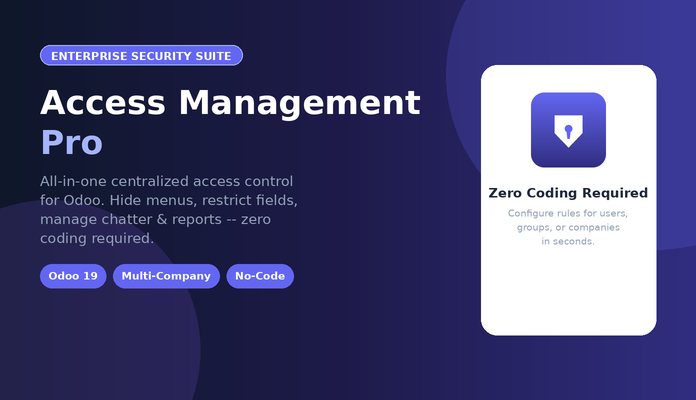
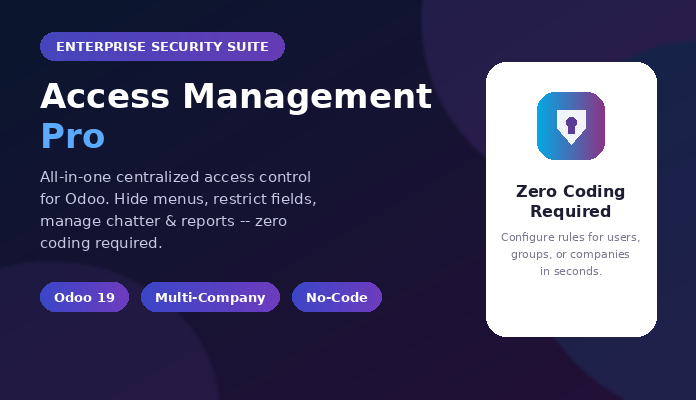
change in the texts in the l4e_access_management_pro

diff --git a/l4e_access_management_pro/static/description/index.html b/l4e_access_management_pro/static/description/index.html
@@ -81,34 +81,34 @@
 <div class="container" style="max-width:1200px; margin:0 auto; padding:0 15px;">
 
 <div style="text-align:center;margin-bottom:30px;padding-top:15px;">
-  <img src="banner.gif" alt="Access Management Pro Banner" style="width:100%;max-width:1000px;height:auto;border-radius:12px;display:block;margin:0 auto;box-shadow:0 4px 20px rgba(0,0,0,0.08);">
+  <img src="banner.gif" alt="Access Management Pro Banner" style="width:100%;max-width:1000px;height:auto;border-radius:12px;display:block;margin:0 auto;border:1px solid #e2e8f0;">
 </div>
 
 <!-- HERO -->
-<div style="background:linear-gradient(135deg,#0f172a 0%,#1e1b4b 55%,#312e81 100%);border-radius:16px;padding:40px 36px;margin-bottom:28px;">
+<div style="background-color:#0f172a;border-radius:16px;padding:40px 36px;margin-bottom:28px;">
   <div class="row align-items-center">
     <div class="col-lg-8 mb-4 mb-lg-0">
-      <div style="display:inline-block;background:rgba(99,102,241,0.25);border:1px solid rgba(165,180,252,0.4);color:#a5b4fc;font-size:11px;font-weight:700;padding:5px 14px;border-radius:30px;letter-spacing:1px;text-transform:uppercase;margin-bottom:16px;">
+      <div style="display:inline-block;background-color:#1e1b4b;border:1px solid #4338ca;color:#a5b4fc;font-size:11px;font-weight:700;padding:5px 14px;border-radius:30px;letter-spacing:1px;text-transform:uppercase;margin-bottom:16px;">
         &#x1F6E1; ENTERPRISE SECURITY SUITE
       </div>
       <div style="font-size:34px;font-weight:800;color:#ffffff;letter-spacing:-0.5px;line-height:1.15;margin-bottom:14px;">
         Access Management Pro
       </div>
-      <div style="font-size:15px;color:#94a3b8;margin-bottom:22px;max-width:560px;">
-        All-in-one centralized access control for Odoo. Hide menus, restrict fields, lock down buttons and reports, control chatter, and manage domain-level security for any user, group, or company &mdash; from a single dashboard. <strong style="color:#c7d2fe;">Zero coding required.</strong>
+      <div style="font-size:15px;color:#cbd5e1;margin-bottom:22px;max-width:560px;">
+        All-in-one centralized access control for Odoo. Hide menus, restrict fields, lock down buttons and reports, control chatter, and manage domain-level security for any user, group, or company &mdash; from a single dashboard. <strong style="color:#ffffff;">Zero coding required.</strong>
       </div>
       <div>
-        <span style="display:inline-block;background:linear-gradient(90deg,#6366f1,#8b5cf6);color:#fff;font-size:11px;font-weight:700;padding:4px 12px;border-radius:20px;margin-right:6px;margin-bottom:6px;">&#x2713; Odoo 19</span>
-        <span style="display:inline-block;background:linear-gradient(90deg,#6366f1,#8b5cf6);color:#fff;font-size:11px;font-weight:700;padding:4px 12px;border-radius:20px;margin-right:6px;margin-bottom:6px;">&#x2713; Multi-Company</span>
-        <span style="display:inline-block;background:linear-gradient(90deg,#6366f1,#8b5cf6);color:#fff;font-size:11px;font-weight:700;padding:4px 12px;border-radius:20px;margin-right:6px;margin-bottom:6px;">&#x2713; No Coding Required</span>
+        <span style="display:inline-block;background-color:#4f46e5;color:#ffffff;font-size:11px;font-weight:700;padding:4px 12px;border-radius:20px;margin-right:6px;margin-bottom:6px;">&#x2713; Odoo 19</span>
+        <span style="display:inline-block;background-color:#4f46e5;color:#ffffff;font-size:11px;font-weight:700;padding:4px 12px;border-radius:20px;margin-right:6px;margin-bottom:6px;">&#x2713; Multi-Company</span>
+        <span style="display:inline-block;background-color:#4f46e5;color:#ffffff;font-size:11px;font-weight:700;padding:4px 12px;border-radius:20px;margin-right:6px;margin-bottom:6px;">&#x2713; No Coding Required</span>
       </div>
     </div>
     <div class="col-lg-4 text-center">
-      <div style="background:rgba(255,255,255,0.06);border:1px solid rgba(255,255,255,0.12);border-radius:14px;padding:24px 20px;">
+      <div style="background-color:#1e293b;border:1px solid #334155;border-radius:14px;padding:24px 20px;">
         <div style="font-size:11px;color:#94a3b8;font-weight:600;letter-spacing:1px;text-transform:uppercase;margin-bottom:6px;">License</div>
         <div style="font-size:20px;font-weight:800;color:#ffffff;margin-bottom:8px;">OPL-1</div>
         <div style="font-size:12px;color:#a5b4fc;margin-bottom:16px;">One-Time Purchase &bull; Multi-Company</div>
-        <div style="background:rgba(99,102,241,0.2);border-radius:8px;padding:8px 12px;font-size:11.5px;color:#c7d2fe;">
+        <div style="background-color:#2e2870;border:1px solid #4338ca;border-radius:8px;padding:8px 12px;font-size:11.5px;color:#c7d2fe;">
           Compatible with Odoo 19 Community &amp; Enterprise
         </div>
       </div>
@@ -117,7 +117,7 @@
 </div>
 
 <!-- KEY CAPABILITIES -->
-<div style="background:linear-gradient(135deg,#f8fafc,#eef2ff);border:1px solid #c7d2fe;border-radius:14px;padding:28px 28px 20px;margin-bottom:28px;">
+<div style="background-color:#f8fafc;border:1px solid #c7d2fe;border-radius:14px;padding:28px 28px 20px;margin-bottom:28px;">
   <div style="text-align:center;font-size:17px;font-weight:700;color:#1e293b;margin-bottom:20px;">&#x2B50; Key Capabilities At A Glance</div>
   <div style="text-align:center;">
     <span style="display:inline-block;background:#fff;border:1px solid #cbd5e1;border-radius:30px;padding:7px 16px;margin:4px;font-size:12px;font-weight:600;color:#1e293b;">Hide Menus &amp; Submenus</span>
@@ -134,7 +134,7 @@
 </div>
 
 <div style="text-align:center;margin:36px 0 22px;">
-  <div style="display:inline-block;background:rgba(0,135,132,0.1);color:#008784;font-size:11px;font-weight:700;padding:5px 14px;border-radius:30px;letter-spacing:1px;text-transform:uppercase;margin-bottom:10px;">Deep Dive</div>
+  <div style="display:inline-block;background-color:#e0f2f1;border:1px solid #b2dfdb;color:#008784;font-size:11px;font-weight:700;padding:5px 14px;border-radius:30px;letter-spacing:1px;text-transform:uppercase;margin-bottom:10px;">Deep Dive</div>
   <div style="font-size:26px;font-weight:800;color:#151765;">Explore Every Access Control Feature</div>
   <div style="font-size:14px;color:#64748b;margin-top:6px;">Click any tab on the left to view that feature's screenshot and detailed explanation.</div>
 </div>
@@ -181,7 +181,7 @@
         
         <!-- Right column: Tab Content showcase -->
         <div class="col-xl-9 col-lg-8 col-md-7 col-sm-12">
-            <div class="tab-content py-3 bg-white ms-md-2" style="border-radius:10px; min-height:420px; box-shadow:0 2px 8px rgba(0,0,0,0.04);">
+            <div class="tab-content py-3 bg-white ms-md-2" style="border-radius:10px; min-height:420px; border:1px solid #e2e8f0;">
                 
             <div class="tab-pane h-100 active show" id="gmenu-1-pane" role="tabpanel" aria-labelledby="vv-gmenu-1-tab">
                 <div class="h-100 d-flex flex-column align-items-center w-100 justify-content-center p-3">
@@ -306,7 +306,7 @@
         
         <!-- Right column: Tab Content showcase -->
         <div class="col-xl-9 col-lg-8 col-md-7 col-sm-12">
-            <div class="tab-content py-3 bg-white ms-md-2" style="border-radius:10px; min-height:420px; box-shadow:0 2px 8px rgba(0,0,0,0.04);">
+            <div class="tab-content py-3 bg-white ms-md-2" style="border-radius:10px; min-height:420px; border:1px solid #e2e8f0;">
                 
             <div class="tab-pane h-100 active show" id="gmodel-1-pane" role="tabpanel" aria-labelledby="vv-gmodel-1-tab">
                 <div class="h-100 d-flex flex-column align-items-center w-100 justify-content-center p-3">
@@ -435,7 +435,7 @@
         
         <!-- Right column: Tab Content showcase -->
         <div class="col-xl-9 col-lg-8 col-md-7 col-sm-12">
-            <div class="tab-content py-3 bg-white ms-md-2" style="border-radius:10px; min-height:420px; box-shadow:0 2px 8px rgba(0,0,0,0.04);">
+            <div class="tab-content py-3 bg-white ms-md-2" style="border-radius:10px; min-height:420px; border:1px solid #e2e8f0;">
                 
             <div class="tab-pane h-100 active show" id="gfield-1-pane" role="tabpanel" aria-labelledby="vv-gfield-1-tab">
                 <div class="h-100 d-flex flex-column align-items-center w-100 justify-content-center p-3">
@@ -539,7 +539,7 @@
         
         <!-- Right column: Tab Content showcase -->
         <div class="col-xl-9 col-lg-8 col-md-7 col-sm-12">
-            <div class="tab-content py-3 bg-white ms-md-2" style="border-radius:10px; min-height:420px; box-shadow:0 2px 8px rgba(0,0,0,0.04);">
+            <div class="tab-content py-3 bg-white ms-md-2" style="border-radius:10px; min-height:420px; border:1px solid #e2e8f0;">
                 
             <div class="tab-pane h-100 active show" id="gdomain-1-pane" role="tabpanel" aria-labelledby="vv-gdomain-1-tab">
                 <div class="h-100 d-flex flex-column align-items-center w-100 justify-content-center p-3">
@@ -641,7 +641,7 @@
         
         <!-- Right column: Tab Content showcase -->
         <div class="col-xl-9 col-lg-8 col-md-7 col-sm-12">
-            <div class="tab-content py-3 bg-white ms-md-2" style="border-radius:10px; min-height:420px; box-shadow:0 2px 8px rgba(0,0,0,0.04);">
+            <div class="tab-content py-3 bg-white ms-md-2" style="border-radius:10px; min-height:420px; border:1px solid #e2e8f0;">
                 
             <div class="tab-pane h-100 active show" id="gbutton-1-pane" role="tabpanel" aria-labelledby="vv-gbutton-1-tab">
                 <div class="h-100 d-flex flex-column align-items-center w-100 justify-content-center p-3">
@@ -715,7 +715,7 @@
         
         <!-- Right column: Tab Content showcase -->
         <div class="col-xl-9 col-lg-8 col-md-7 col-sm-12">
-            <div class="tab-content py-3 bg-white ms-md-2" style="border-radius:10px; min-height:420px; box-shadow:0 2px 8px rgba(0,0,0,0.04);">
+            <div class="tab-content py-3 bg-white ms-md-2" style="border-radius:10px; min-height:420px; border:1px solid #e2e8f0;">
                 
             <div class="tab-pane h-100 active show" id="gsearch-1-pane" role="tabpanel" aria-labelledby="vv-gsearch-1-tab">
                 <div class="h-100 d-flex flex-column align-items-center w-100 justify-content-center p-3">
@@ -800,7 +800,7 @@
         
         <!-- Right column: Tab Content showcase -->
         <div class="col-xl-9 col-lg-8 col-md-7 col-sm-12">
-            <div class="tab-content py-3 bg-white ms-md-2" style="border-radius:10px; min-height:420px; box-shadow:0 2px 8px rgba(0,0,0,0.04);">
+            <div class="tab-content py-3 bg-white ms-md-2" style="border-radius:10px; min-height:420px; border:1px solid #e2e8f0;">
                 
             <div class="tab-pane h-100 active show" id="gchatter-1-pane" role="tabpanel" aria-labelledby="vv-gchatter-1-tab">
                 <div class="h-100 d-flex flex-column align-items-center w-100 justify-content-center p-3">
@@ -913,7 +913,7 @@
         
         <!-- Right column: Tab Content showcase -->
         <div class="col-xl-9 col-lg-8 col-md-7 col-sm-12">
-            <div class="tab-content py-3 bg-white ms-md-2" style="border-radius:10px; min-height:420px; box-shadow:0 2px 8px rgba(0,0,0,0.04);">
+            <div class="tab-content py-3 bg-white ms-md-2" style="border-radius:10px; min-height:420px; border:1px solid #e2e8f0;">
                 
             <div class="tab-pane h-100 active show" id="gglobal-1-pane" role="tabpanel" aria-labelledby="vv-gglobal-1-tab">
                 <div class="h-100 d-flex flex-column align-items-center w-100 justify-content-center p-3">
@@ -1005,7 +1005,7 @@
         
         <!-- Right column: Tab Content showcase -->
         <div class="col-xl-9 col-lg-8 col-md-7 col-sm-12">
-            <div class="tab-content py-3 bg-white ms-md-2" style="border-radius:10px; min-height:420px; box-shadow:0 2px 8px rgba(0,0,0,0.04);">
+            <div class="tab-content py-3 bg-white ms-md-2" style="border-radius:10px; min-height:420px; border:1px solid #e2e8f0;">
                 
             <div class="tab-pane h-100 active show" id="gronly-1-pane" role="tabpanel" aria-labelledby="vv-gronly-1-tab">
                 <div class="h-100 d-flex flex-column align-items-center w-100 justify-content-center p-3">
@@ -1055,13 +1055,13 @@
 </div>
 
 <!-- FOOTER -->
-<div style="background:linear-gradient(135deg,#0f172a,#1e1b4b);border-radius:14px;padding:40px 28px;text-align:center;margin-bottom:20px;">
+<div style="background-color:#0f172a;border-radius:14px;padding:40px 28px;text-align:center;margin-bottom:20px;">
   <div style="font-size:24px;font-weight:800;color:#ffffff;margin-bottom:10px;">Secure Your Odoo Enterprise Today</div>
-  <div style="font-size:14.5px;color:#94a3b8;margin-bottom:22px;">Maintain complete control over user access, data visibility, and UI elements &mdash; without writing a single line of code.</div>
+  <div style="font-size:14.5px;color:#cbd5e1;margin-bottom:22px;">Maintain complete control over user access, data visibility, and UI elements &mdash; without writing a single line of code.</div>
   <div>
-    <span style="display:inline-block;background:rgba(255,255,255,0.12);border:1px solid rgba(255,255,255,0.2);color:#ffffff;font-size:12px;font-weight:600;padding:8px 20px;border-radius:30px;margin:4px;">&#x2705; 100% Native Integration</span>
-    <span style="display:inline-block;background:rgba(255,255,255,0.12);border:1px solid rgba(255,255,255,0.2);color:#ffffff;font-size:12px;font-weight:600;padding:8px 20px;border-radius:30px;margin:4px;">&#x2705; Odoo 19 Ready</span>
-    <span style="display:inline-block;background:rgba(255,255,255,0.12);border:1px solid rgba(255,255,255,0.2);color:#ffffff;font-size:12px;font-weight:600;padding:8px 20px;border-radius:30px;margin:4px;">&#x2705; Free Support Window</span>
+    <span style="display:inline-block;background-color:#1e293b;border:1px solid #334155;color:#ffffff;font-size:12px;font-weight:600;padding:8px 20px;border-radius:30px;margin:4px;">&#x2705; 100% Native Integration</span>
+    <span style="display:inline-block;background-color:#1e293b;border:1px solid #334155;color:#ffffff;font-size:12px;font-weight:600;padding:8px 20px;border-radius:30px;margin:4px;">&#x2705; Odoo 19 Ready</span>
+    <span style="display:inline-block;background-color:#1e293b;border:1px solid #334155;color:#ffffff;font-size:12px;font-weight:600;padding:8px 20px;border-radius:30px;margin:4px;">&#x2705; Free Support Window</span>
   </div>
 </div>
 
